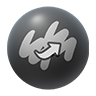
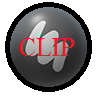
Updated files to create Clipping brush

diff --git a/source/blender/editors/sculpt_paint/sculpt.c b/source/blender/editors/sculpt_paint/sculpt.c
@@ -1230,7 +1230,6 @@ static float brush_strength(
 
 		case SCULPT_TOOL_ROTATE:
 			return alpha * pressure * feather;
-
 		default:
 			return 0;
 	}
@@ -3053,6 +3052,12 @@ static void do_clay_strips_brush(Sculpt *sd, Object *ob, PBVHNode **nodes, int t
 	            ((sd->flags & SCULPT_USE_OPENMP) && totnode > SCULPT_THREADED_LIMIT), false);
 }
 
+static void do_clip_brush(Sculpt *sd, Object *ob, PBVHNode **nodes, int totnode)  /*clipping*/
+{
+	// some functions in future
+
+}
+
 static void do_fill_brush_task_cb_ex(
         void *userdata, void *UNUSED(userdata_chunk), const int n, const int thread_id)
 {
@@ -3438,6 +3443,9 @@ static void do_brush_action(Sculpt *sd, Object *ob, Brush *brush, UnifiedPaintSe
 				break;
 			case SCULPT_TOOL_ROTATE:
 				do_rotate_brush(sd, ob, nodes, totnode);
+				break;
+			case SCULPT_TOOL_CLIP: /*CLIP*/
+				do_clip_brush(sd, ob, nodes, totnode);
 				break;
 			case SCULPT_TOOL_SNAKE_HOOK:
 				do_snake_hook_brush(sd, ob, nodes, totnode);
@@ -3915,6 +3923,8 @@ static const char *sculpt_tool_name(Sculpt *sd)
 			return "Inflate Brush";
 		case SCULPT_TOOL_GRAB:
 			return "Grab Brush";
+		case SCULPT_TOOL_CLIP:  /*clip*/
+			return "Clip Brush";
 		case SCULPT_TOOL_NUDGE:
 			return "Nudge Brush";
 		case SCULPT_TOOL_THUMB:

diff --git a/source/blender/makesdna/DNA_scene_types.h b/source/blender/makesdna/DNA_scene_types.h
@@ -1191,7 +1191,7 @@ typedef enum eGP_EditBrush_Types {
 	GP_EDITBRUSH_TYPE_SIMPLIFY  = 8,
 	GP_EDITBRUSH_TYPE_CLONE     = 9,
 	GP_EDITBRUSH_TYPE_STRENGTH  = 10,
-
+	GP_EDITBRUSH_TYPE_CLIP = 11,
 	/* !!! Update GP_EditBrush_Data brush[###]; below !!! */
 	TOT_GP_EDITBRUSH_TYPES
 } eGP_EditBrush_Types;
@@ -1229,7 +1229,7 @@ typedef enum eGP_EditBrush_Flag {
 
 /* GPencil Stroke Sculpting Settings */
 typedef struct GP_BrushEdit_Settings {
-	GP_EditBrush_Data brush[11];  /* TOT_GP_EDITBRUSH_TYPES */
+	GP_EditBrush_Data brush[12];  /* TOT_GP_EDITBRUSH_TYPES */
 	void *paintcursor;            /* runtime */
 	
 	int brushtype;                /* eGP_EditBrush_Types */

diff --git a/source/blender/editors/sculpt_paint/paint_ops.c b/source/blender/editors/sculpt_paint/paint_ops.c
@@ -1592,6 +1592,7 @@ void ED_keymap_paint(wmKeyConfig *keyconf)
 	keymap_brush_select(keymap, OB_MODE_SCULPT, SCULPT_TOOL_PINCH, PKEY, 0);
 	keymap_brush_select(keymap, OB_MODE_SCULPT, SCULPT_TOOL_INFLATE, IKEY, 0);
 	keymap_brush_select(keymap, OB_MODE_SCULPT, SCULPT_TOOL_GRAB, GKEY, 0);
+	keymap_brush_select(keymap, OB_MODE_SCULPT, SCULPT_TOOL_CLIP, YKEY, 0);
 	keymap_brush_select(keymap, OB_MODE_SCULPT, SCULPT_TOOL_LAYER, LKEY, 0);
 	keymap_brush_select(keymap, OB_MODE_SCULPT, SCULPT_TOOL_FLATTEN, TKEY, KM_SHIFT);
 	keymap_brush_select(keymap, OB_MODE_SCULPT, SCULPT_TOOL_CLAY, CKEY, 0);

diff --git a/source/blender/makesrna/intern/rna_brush.c b/source/blender/makesrna/intern/rna_brush.c
@@ -71,6 +71,7 @@ EnumPropertyItem rna_enum_brush_sculpt_tool_items[] = {
 	{SCULPT_TOOL_FILL, "FILL", ICON_BRUSH_FILL, "Fill", ""},
 	{SCULPT_TOOL_FLATTEN, "FLATTEN", ICON_BRUSH_FLATTEN, "Flatten", ""},
 	{SCULPT_TOOL_GRAB, "GRAB", ICON_BRUSH_GRAB, "Grab", ""},
+	{SCULPT_TOOL_CLIP, "CLIP", ICON_BRUSH_CLIP, "Clip", ""},
 	{SCULPT_TOOL_INFLATE, "INFLATE", ICON_BRUSH_INFLATE, "Inflate", ""},
 	{SCULPT_TOOL_LAYER, "LAYER", ICON_BRUSH_LAYER, "Layer", ""},
 	{SCULPT_TOOL_MASK, "MASK", ICON_BRUSH_MASK, "Mask", ""},

diff --git a/source/blender/blenloader/intern/versioning_defaults.c b/source/blender/blenloader/intern/versioning_defaults.c
@@ -144,6 +144,11 @@ void BLO_update_defaults_startup_blend(Main *bmain)
 				brush->size = 50;
 				brush->strength = 0.5f; // XXX?
 				brush->flag = GP_EDITBRUSH_FLAG_USE_FALLOFF;
+
+				brush = &gset->brush[GP_EDITBRUSH_TYPE_CLIP];  /* clipping */
+				brush->size = 40;
+				brush->strength = 0.5f; // XXX?
+				brush->flag = GP_EDITBRUSH_FLAG_USE_FALLOFF;
 				
 				brush = &gset->brush[GP_EDITBRUSH_TYPE_RANDOMIZE];
 				brush->size = 25;

diff --git a/source/blender/blenkernel/intern/scene.c b/source/blender/blenkernel/intern/scene.c
@@ -815,6 +815,11 @@ void BKE_scene_init(Scene *sce)
 		gp_brush->size = 50;
 		gp_brush->strength = 0.5f; // XXX?
 		gp_brush->flag = GP_EDITBRUSH_FLAG_USE_FALLOFF;
+
+		gp_brush = &gset->brush[GP_EDITBRUSH_TYPE_CLIP];  /*clipping*/
+		gp_brush->size = 40;
+		gp_brush->strength = 0.5f; // XXX?
+		gp_brush->flag = GP_EDITBRUSH_FLAG_USE_FALLOFF;
 		
 		gp_brush = &gset->brush[GP_EDITBRUSH_TYPE_RANDOMIZE];
 		gp_brush->size = 25;

diff --git a/source/blender/editors/interface/interface_icons.c b/source/blender/editors/interface/interface_icons.c
@@ -374,6 +374,7 @@ static void init_brush_icons(void)
 	INIT_BRUSH_ICON(ICON_BRUSH_FILL, fill);
 	INIT_BRUSH_ICON(ICON_BRUSH_FLATTEN, flatten);
 	INIT_BRUSH_ICON(ICON_BRUSH_GRAB, grab);
+	INIT_BRUSH_ICON(ICON_BRUSH_CLIP, clip);
 	INIT_BRUSH_ICON(ICON_BRUSH_INFLATE, inflate);
 	INIT_BRUSH_ICON(ICON_BRUSH_LAYER, layer);
 	INIT_BRUSH_ICON(ICON_BRUSH_LIGHTEN, lighten);

diff --git a/source/blender/blenkernel/intern/brush.c b/source/blender/blenkernel/intern/brush.c
@@ -406,6 +406,11 @@ void BKE_brush_sculpt_reset(Brush *br)
 			br->sub_col[0] = 0.250000;
 			br->sub_col[1] = 1.000000;
 			break;
+		case SCULPT_TOOL_CLIP:
+			br->add_col[1] = 1.000000;
+			br->sub_col[0] = 0.250000;
+			br->sub_col[1] = 1.000000;
+			break;
 		case SCULPT_TOOL_ROTATE:
 			br->alpha = 1.0;
 			break;

diff --git a/source/blender/blenloader/intern/versioning_270.c b/source/blender/blenloader/intern/versioning_270.c
@@ -1525,7 +1525,7 @@ void blo_do_versions_270(FileData *fd, Library *UNUSED(lib), Main *main)
 				ParticleEditSettings *pset = &ts->particle;
 				for (int a = 0; a < PE_TOT_BRUSH; a++) {
 					if (pset->brush[a].count == 0) {
-						pset->brush[a].count = 10;
+						pset->brush[a].count = 11;
 					}
 				}
 			}

diff --git a/source/blender/editors/include/ED_datafiles.h b/source/blender/editors/include/ED_datafiles.h
@@ -105,6 +105,9 @@ extern char datatoc_flatten_png[];
 extern int datatoc_grab_png_size;
 extern char datatoc_grab_png[];
 
+extern int datatoc_clip_png_size;
+extern char datatoc_clip_png[];
+
 extern int datatoc_inflate_png_size;
 extern char datatoc_inflate_png[];
 

diff --git a/source/blender/makesdna/DNA_brush_types.h b/source/blender/makesdna/DNA_brush_types.h
@@ -252,7 +252,8 @@ typedef enum BrushSculptTool {
 	SCULPT_TOOL_CREASE = 16,
 	SCULPT_TOOL_BLOB = 17,
 	SCULPT_TOOL_CLAY_STRIPS = 18,
-	SCULPT_TOOL_MASK = 19
+	SCULPT_TOOL_MASK = 19,
+	SCULPT_TOOL_CLIP = 20
 } BrushSculptTool;
 
 /** When #BRUSH_ACCUMULATE is used */

diff --git a/source/blender/editors/include/UI_icons.h b/source/blender/editors/include/UI_icons.h
@@ -950,6 +950,7 @@ DEF_ICON(BRUSH_BLOB)
 DEF_ICON(BRUSH_BLUR)
 DEF_ICON(BRUSH_CLAY)
 DEF_ICON(BRUSH_CLAY_STRIPS)
+DEF_ICON(BRUSH_CLIP)
 DEF_ICON(BRUSH_CLONE)
 DEF_ICON(BRUSH_CREASE)
 DEF_ICON(BRUSH_DARKEN)
